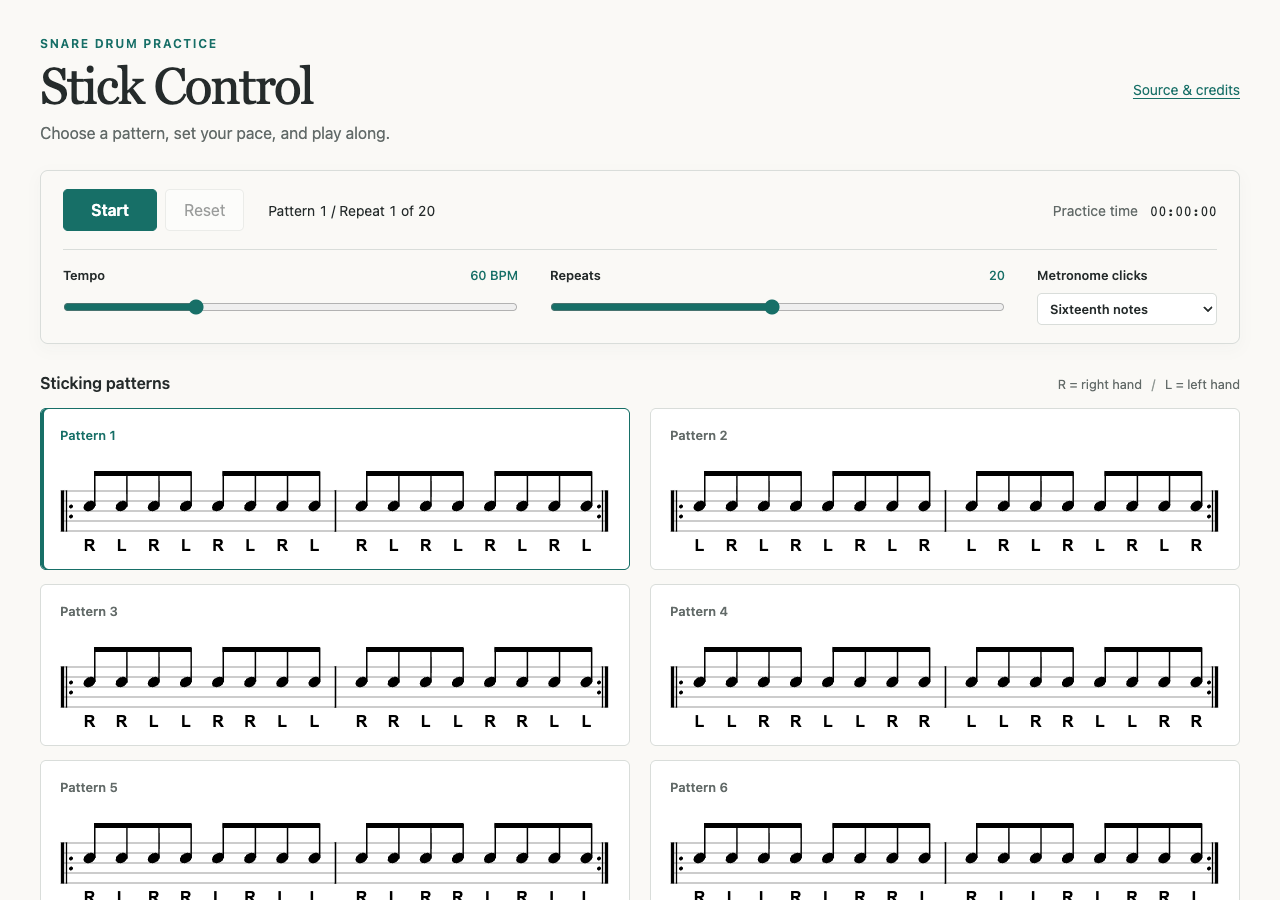
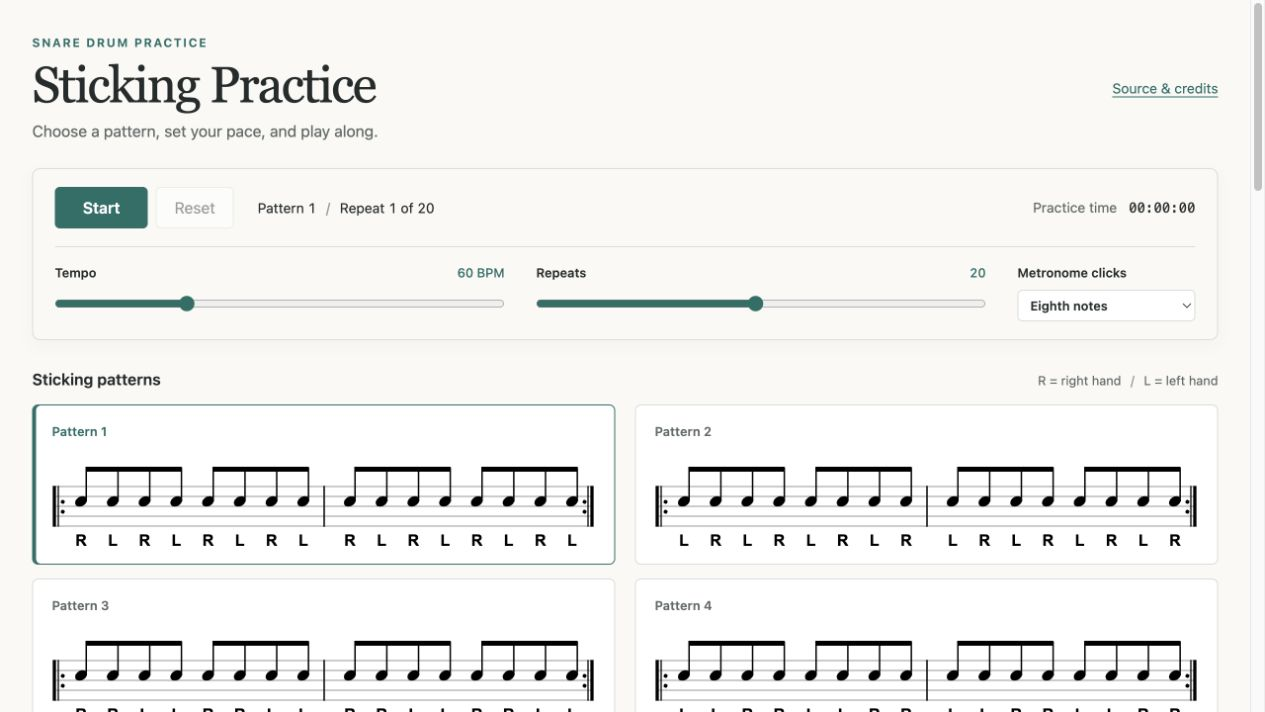
Update branding, source credit, and pattern selection

diff --git a/index.html b/index.html
@@ -4,7 +4,7 @@
   <meta charset="utf-8">
   <meta name="viewport" content="width=device-width, initial-scale=1">
   <meta name="description" content="Practice 24 snare drum sticking patterns with a metronome and notation that follows along.">
-  <title>Stick Control</title>
+  <title>Sticking Practice</title>
   <link rel="stylesheet" href="static/styles.css">
   <script defer src="static/vexflow.min.js"></script>
   <script type="module" src="static/app.js"></script>
@@ -13,7 +13,7 @@
   <header class="page-heading">
     <div>
       <p class="eyebrow">Snare drum practice</p>
-      <h1>Stick Control</h1>
+      <h1>Sticking Practice</h1>
       <p class="intro">Choose a pattern, set your pace, and play along.</p>
     </div>
     <a class="source-link" href="https://github.com/BartGalvin/stick-control">Source &amp; credits</a>
@@ -56,6 +56,7 @@
   </main>
   <footer>
     <p>Each pattern has two bars of eighth notes. After the chosen number of repeats, practice moves to the next pattern.</p>
+    <p>The sticking patterns come from <a href="https://www.stonepercussionbooks.com/stick-control.html"><cite>Stick Control for the Snare Drummer</cite></a> by George Lawrence Stone.</p>
     <p>Notation by <a href="https://www.vexflow.com/">VexFlow</a>. Metronome scheduling adapted from <a href="https://github.com/cwilso/metronome">Chris Wilson</a>.</p>
   </footer>
 </body>

diff --git a/static/styles.css b/static/styles.css
@@ -43,7 +43,8 @@ select { display: block; width: 100%; min-height: 32px; margin-top: 10px; paddin
 h2 { margin: 0; font-size: 1rem; font-weight: 600; }
 .score-heading p { margin: 0; color: var(--muted); font-size: 0.8rem; }
 .patterns { display: grid; grid-template-columns: repeat(2, minmax(0, 1fr)); gap: 14px 20px; }
-.pattern { min-width: 0; background: white; border: 1px solid var(--line); border-radius: 6px; padding: 10px 12px 0; scroll-margin-top: calc(var(--controls-height) + 16px); }
+.pattern { min-width: 0; background: white; border: 1px solid var(--line); border-radius: 6px; padding: 10px 12px 0; scroll-margin-top: calc(var(--controls-height) + 16px); cursor: pointer; }
+.pattern:hover { border-color: var(--accent); }
 .pattern.is-selected { border-color: var(--accent); box-shadow: inset 3px 0 var(--accent); }
 .pattern-button { min-height: 32px; padding: 3px 8px; margin-left: -2px; border-color: transparent; background: transparent; color: var(--muted); font-size: 0.8rem; font-weight: 600; }
 .pattern-button[aria-pressed="true"] { color: var(--accent); }

diff --git a/static/app.js b/static/app.js
@@ -19,12 +19,12 @@ let animation;
 const cards = patterns.map((pattern, index) => {
   const card = document.createElement("article");
   card.className = "pattern";
+  card.addEventListener("click", () => selectPattern(index));
   const button = document.createElement("button");
   button.type = "button";
   button.className = "pattern-button";
   button.textContent = `Pattern ${index + 1}`;
   button.setAttribute("aria-label", `Practice pattern ${index + 1}: ${pattern.split("").join(" ")}`);
-  button.addEventListener("click", () => selectPattern(index));
   const notation = document.createElement("div");
   notation.className = "notation";
   notation.setAttribute("aria-hidden", "true");

diff --git a/README.md b/README.md
@@ -1,16 +1,20 @@
-# Stick Control
+# Sticking Practice
 
 Practice 24 snare drum sticking patterns with a metronome and notation that
 follows along. Set your tempo and repeat count, then work through the patterns
 at your own pace.
 
-[Open Stick Control](https://bartgalvin.github.io/stick-control/)
+The sticking patterns come from
+[*Stick Control for the Snare Drummer*](https://www.stonepercussionbooks.com/stick-control.html)
+by George Lawrence Stone.
 
-![Stick Control practice screen](docs/preview.png)
+[Open Sticking Practice](https://bartgalvin.github.io/stick-control/)
+
+![Sticking Practice screen](docs/preview.png)
 
 ## Practice
 
-- Choose a pattern by clicking its number.
+- Click anywhere on a pattern to select it.
 - Set the tempo from 20 to 160 BPM and the repeats from 1 to 40.
 - Choose sixteenth, eighth, or quarter-note metronome clicks.
 - Click **Start** to begin. **Pause** stops playback; **Resume** continues from
@@ -42,4 +46,4 @@ Notation uses [VexFlow](https://github.com/0xfe/vexflow), bundled at version
 [Web Audio Metronome](https://github.com/cwilso/metronome).
 Their license notices are in [licenses](licenses/).
 
-Stick Control is released under the [MIT license](LICENSE).
+The app's code is released under the [MIT license](LICENSE).
